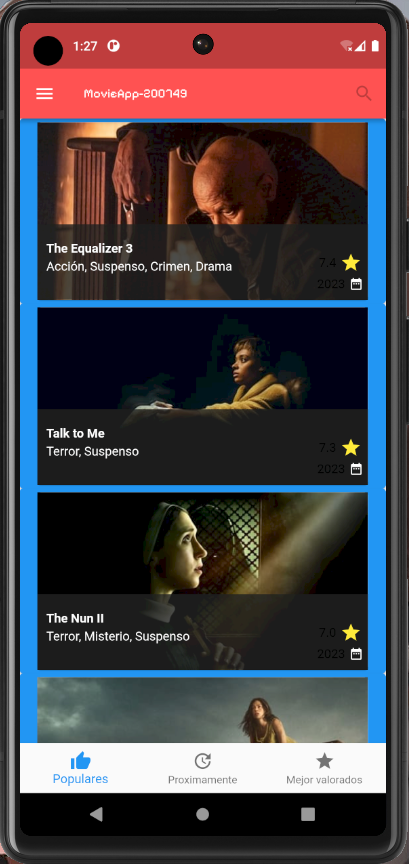
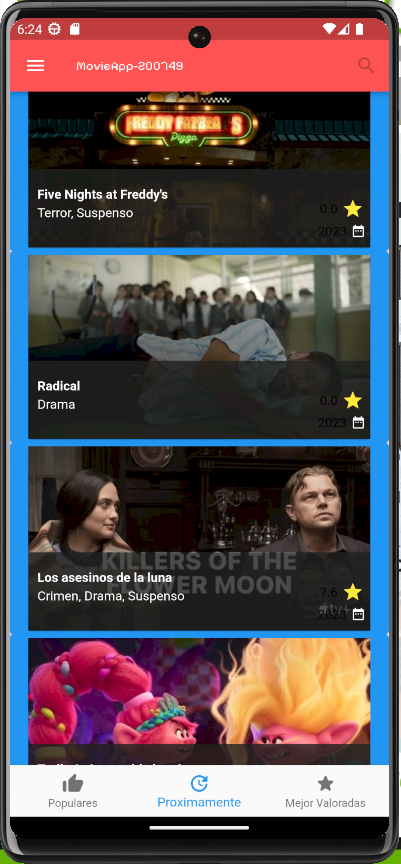
Corregido

diff --git a/lib/common/HttpHandler.dart b/lib/common/HttpHandler.dart
@@ -23,18 +23,40 @@ class HttpHandler {
         await http.get(uri);
     return json.decode(response.body);
   }
-  Future<List<Media>> fetchMovies({String category = "populares"}) async {
-    var uri = new Uri.https(
-        _baseUrl,
-        "3/movie/$category",
-        {
-          'api_key': API_KEY,
-          'page': "1",
-          'language': _language
-        });
-    return getJson(uri).then(((data) =>
-        data['results'].map<Media>((item) => new Media(item, MediaType.movie)).toList()));
-  }
+  
+Future<List<Media>> fetchMovies({String category = "populares"}) async {
+  var uri = new Uri.https(
+    _baseUrl,
+    "3/movie/$category",
+    {
+      'api_key': API_KEY,
+      'page': "1",
+      'language': _language,
+    },
+  );
+
+  return getJson(uri).then((data) {
+    if (category == "upcoming") {
+      var sortedResults = data['results']
+          .where((item) => item['release_date'] != null)
+          .toList()
+            ..sort((a, b) {
+              DateTime dateA = DateTime.parse(a['release_date']);
+              DateTime dateB = DateTime.parse(b['release_date']);
+              return dateB.compareTo(dateA);
+            });
+
+      return sortedResults
+          .map<Media>((item) => new Media(item, MediaType.movie))
+          .toList();
+    } else {
+      return data['results']
+          .map<Media>((item) => new Media(item, MediaType.movie))
+          .toList();
+    }
+  });
+}
+
   Future<List<Media>> fetchShow({String category = "populares"}) async {
     var uri = new Uri.https(
         _baseUrl,

diff --git a/README.md b/README.md
@@ -16,17 +16,38 @@
 
 ## Septiempre - Diciembre
 
-## Descripción:  Dentro de este archivo, se encuentra la clase Home, que representa la página principal de la aplicación. En el método initState, se llama a la función _loadJson para cargar datos de medios, ya sean películas o programas de televisión, utilizando HttpHandler. Además, se define un estilo de fuente personalizado y se crea la estructura principal de la aplicación, que incluye una AppBar (Barra de Navegación Superior), un Drawer (Menú Lateral) y un BottomNavigationBar (Barra de Navegación Inferior).
-## Menú Lateral (Drawer): El menú lateral se despliega deslizando desde el borde izquierdo de la pantalla o al tocar el icono de menú en la AppBar. Contiene las siguientes opciones:
+## Descripción:  Este proyecto representa una aplicación de demostración desarrollada en Flutter que exhibe la página de inicio de la aplicación "MovieApp-200749". La página de inicio incluye los siguientes elementos clave:
 
-"Películas": Esta opción muestra películas y utiliza un estilo de fuente personalizado para dar formato al texto.
-"Programas de Televisión": Muestra programas de televisión y utiliza el mismo estilo de fuente personalizado.
-"Cerrar": Permite cerrar el menú lateral y volver a la página de inicio.
-Barra de Navegación Inferior (BottomNavigationBar): La barra de navegación inferior contiene tres elementos:
+Inicio.dart
+Dentro de este archivo se encuentra la clase Inicio, que representa la página de inicio de la aplicación. En el método inicializar, se llama a _cargarDatosJSON para obtener información de películas utilizando el manejador HTTP. Además, se define un estilo de fuente personalizado y se establece la estructura fundamental de la aplicación, que consta de una barra superior de navegación (AppBar), un menú lateral (Drawer) y una barra de navegación inferior (BottomNavigationBar).
 
-"Populares": Muestra medios populares, ya sean películas o programas de televisión, y presenta un ícono de pulgar hacia arriba.
-"Próximos Estrenos": Muestra medios que están por estrenarse, ya sean películas o programas de televisión, y tiene un ícono de actualización.
-"Mejor Valorados": Muestra medios mejor valorados, ya sean películas o programas de televisión, y cuenta con un ícono de estrella. Cada medio está calificado o valorado por los usuarios para ayudar a los usuarios a encontrar contenido de alta calidad.
+1. Barra Superior de Navegación (AppBar)
+La AppBar muestra el título "MovieApp-200749" en el centro y un ícono de búsqueda en la esquina derecha. Aquí puedes navegar y realizar búsquedas.
+
+2. Menú Deslizante (Drawer)
+El menú deslizante se abre deslizando desde el borde izquierdo de la pantalla o tocando el ícono del menú en la AppBar. Contiene las siguientes opciones:
+
+- "Películas": Una opción que muestra películas y aplica un estilo de fuente personalizado al texto.
+- "Televisión": Una opción que muestra programas de televisión y utiliza el mismo estilo de fuente personalizado.
+- "Cerrar": Una opción que permite cerrar el menú deslizante y regresar a la página de inicio.
+
+3. Barra de Navegación Inferior (BottomNavigationBar)
+La barra de navegación inferior incluye tres elementos:
+
+- "Populares": Muestra películas populares y muestra un ícono de pulgar hacia arriba.
+- "Próximos Estrenos": Muestra películas próximas a su estreno y utiliza un ícono de actualización.
+- "Mejor Valoradas": Muestra películas mejor valoradas y presenta un ícono de estrella.
+
+ListaMultimedia.dart
+Dentro de este archivo se define la clase ListaMultimedia, que es un StatefulWidget que representa una lista de contenidos multimedia. Actualmente, en el método generar, retorna un contenedor vacío. Puedes personalizar esta parte para mostrar la lista de contenidos multimedia.
+
+ManejadorHTTP.dart
+El archivo ManejadorHTTP.dart contiene la lógica para realizar peticiones HTTP y obtener datos de películas desde una API. Define la clase ManejadorHTTP, que contiene métodos para obtener datos JSON y buscar películas.
+
+Constantes.dart
+El archivo Constantes.dart define una constante API_KEY, que se emplea en ManejadorHTTP.dart para autenticar las solicitudes a la API.
+
+La aplicación muestra en el cuerpo principal los pósteres de las películas más populares.
 
 
 <p align="center">
